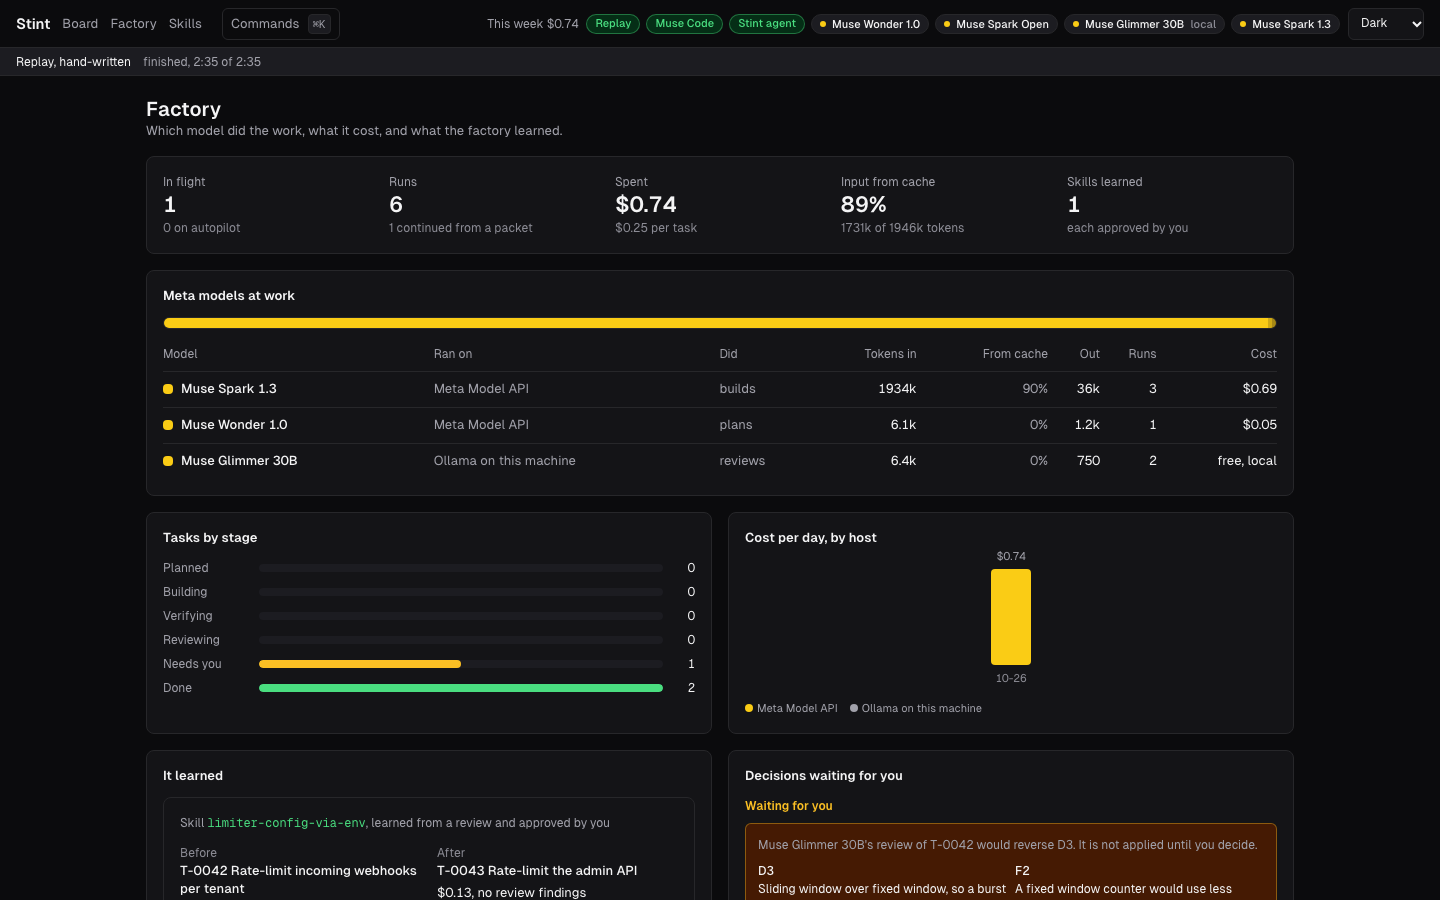
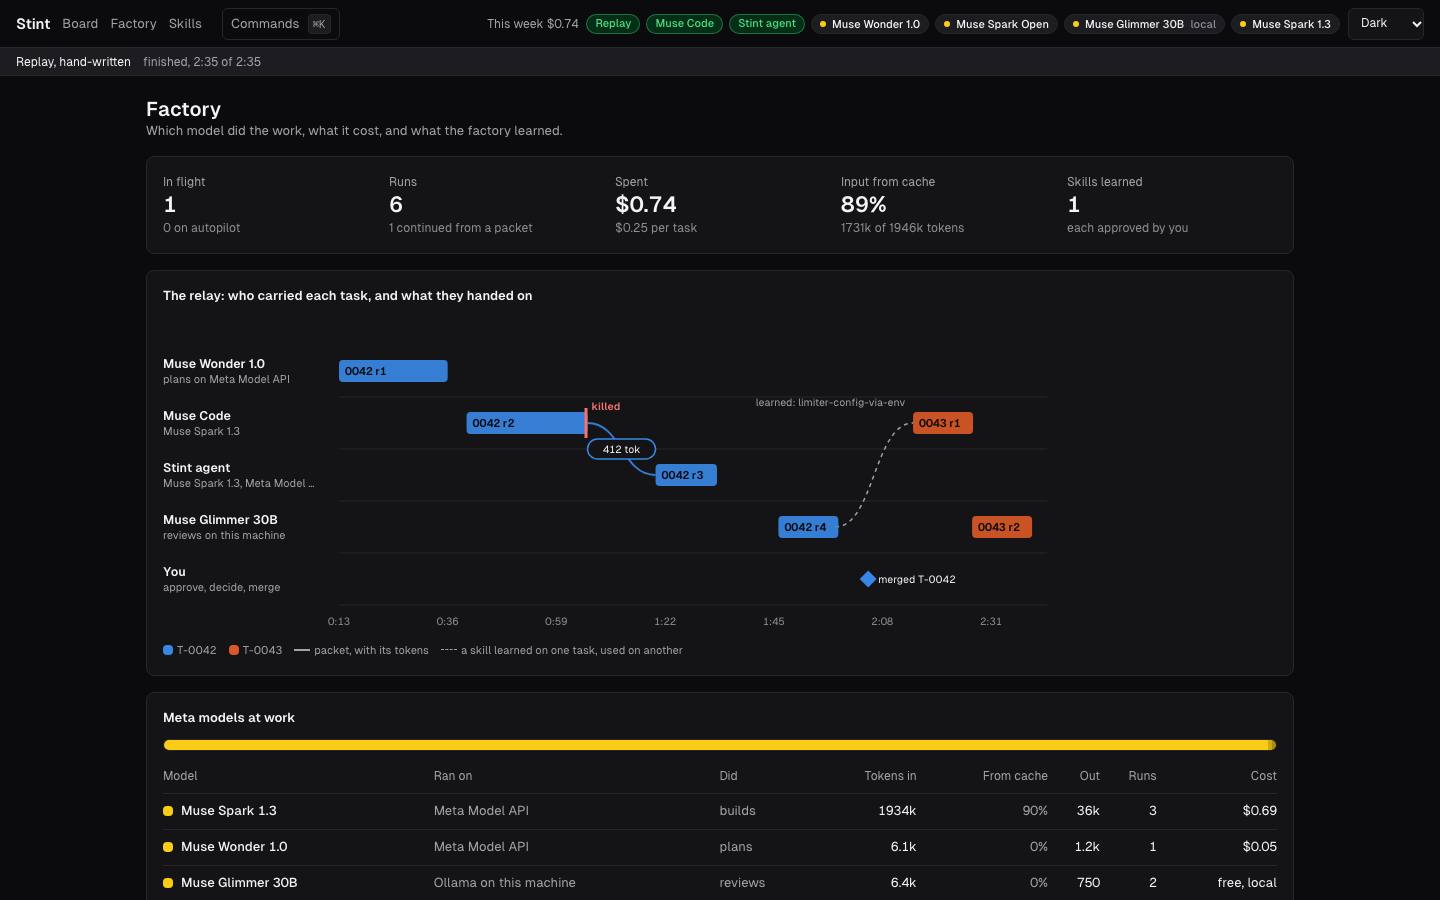
The relay: the whole floor in one picture
On the Factory, one lane per agent: Muse Wonder plans, Muse Code and the
Stint agent build on Muse Spark, Glimmer reviews on the laptop, and you
approve. Each run is a bar in its task's colour, and a kill is marked.
Each packet links the run that left to the run that continued, with its
token count, and a learned skill links the review it came from to the
task that used it. Hover a bar for its outcome and cost; click it to
open the task.

Spec: R-019

diff --git a/apps/web/src/components/Relay.tsx b/apps/web/src/components/Relay.tsx
@@ -1,0 +1,249 @@
+import { useEffect, useRef, useState } from 'react';
+import { useNavigate } from 'react-router';
+import { hostName, modelName } from '../agents';
+import { api } from '../api';
+import { money } from '../format';
+import { EmptyState } from './ui';
+
+type Lane = { id: string; adapter: string | null; model: string | null; host: string | null; roles: string[]; human: boolean };
+type Run = { task: string; run: string; lane: string; role: string | null; start: number; end: number | null; endedBy: string | null; usd: number | null; verified: 'green' | 'red' | null };
+type Link =
+  | { kind: 'packet'; task: string; from: string; to: string | null; name: string; tokens: number | null; at: number }
+  | { kind: 'skill'; skill: string; fromTask: string; from: string; toTask: string; to: string; at: number };
+type Mark = { kind: string; task: string; at: number; text: string };
+export type RelayData = { lanes: Lane[]; runs: Run[]; links: Link[]; marks: Mark[]; from: number; to: number; replay: boolean };
+
+// categorical slots in fixed order, validated for both themes; a task keeps its colour by its place on the board
+const TASK_DARK = ['#3987e5', '#d95926', '#199e70', '#c98500', '#d55181', '#9085e9'];
+const TASK_LIGHT = ['#2a78d6', '#eb6834', '#1baf7a', '#eda100', '#e87ba4', '#6250d6'];
+
+const LABEL_W = 176;
+const LANE_H = 52;
+const BAR_H = 22;
+const TOP = 28;
+
+const AGENT: Record<string, string> = { 'muse-code': 'Muse Code', 'stint-agent': 'Stint agent', replay: 'Replay' };
+
+function laneTitle(l: Lane): { name: string; detail: string } {
+  if (l.human) return { name: 'You', detail: 'approve, decide, merge' };
+  const model = l.model ? modelName(l.model) : 'its model';
+  if (l.adapter && l.adapter !== 'openai-compatible') return { name: AGENT[l.adapter] ?? l.adapter, detail: `${model}${l.host ? `, ${hostName(l.host)}` : ''}` };
+  const did = l.roles.map((r) => ({ planner: 'plans', reviewer: 'reviews', implementer: 'builds' })[r] ?? r).join(', ');
+  return { name: model, detail: `${did} on ${l.host === 'ollama' ? 'this machine' : hostName(l.host)}` };
+}
+
+const clock = (ms: number) => `${Math.floor(ms / 60_000)}:${String(Math.floor((ms % 60_000) / 1000)).padStart(2, '0')}`;
+
+function useDark(): boolean {
+  const [dark, setDark] = useState(() => getComputedStyle(document.documentElement).getPropertyValue('--surface').trim().toLowerCase() !== '#ffffff');
+  useEffect(() => {
+    const read = () => setDark(getComputedStyle(document.documentElement).getPropertyValue('--surface').trim().toLowerCase() !== '#ffffff');
+    const obs = new MutationObserver(read);
+    obs.observe(document.documentElement, { attributes: true, attributeFilter: ['data-theme'] });
+    const mq = matchMedia('(prefers-color-scheme: dark)');
+    mq.addEventListener('change', read);
+    return () => {
+      obs.disconnect();
+      mq.removeEventListener('change', read);
+    };
+  }, []);
+  return dark;
+}
+
+/** The whole floor: every run on its agent's lane, the packets that carried a task on, and the lesson that crossed tasks. */
+export function Relay() {
+  const [data, setData] = useState<RelayData | null>(null);
+  const [width, setWidth] = useState(900);
+  const [hover, setHover] = useState<{ x: number; y: number; lines: string[] } | null>(null);
+  const box = useRef<HTMLDivElement>(null);
+  const navigate = useNavigate();
+  const dark = useDark();
+
+  useEffect(() => {
+    let live = true;
+    const load = () =>
+      api
+        .relay()
+        .then((d) => live && setData(d))
+        .catch(() => undefined);
+    void load();
+    const t = setInterval(load, 4000);
+    return () => {
+      live = false;
+      clearInterval(t);
+    };
+  }, []);
+  useEffect(() => {
+    if (!box.current) return;
+    const obs = new ResizeObserver(([e]) => e && setWidth(Math.max(560, e.contentRect.width)));
+    obs.observe(box.current);
+    return () => obs.disconnect();
+  }, []);
+
+  if (!data) return <p className="text-faint text-[13px]">Reading the floor.</p>;
+  if (data.runs.length === 0) return <EmptyState>The relay appears here once a run starts: one lane per agent, and a link each time a task passes from one to the next.</EmptyState>;
+
+  const palette = dark ? TASK_DARK : TASK_LIGHT;
+  const tasks = [...new Set(data.runs.map((r) => r.task))].sort();
+  const colour = (task: string) => palette[tasks.indexOf(task) % palette.length] as string;
+  const span = Math.max(1, data.to - data.from);
+  // room on the right for the last bar's label and a killed marker
+  const plotW = width - LABEL_W - 72;
+  const x = (t: number) => LABEL_W + ((t - data.from) / span) * plotW;
+  const laneIndex = new Map(data.lanes.map((l, i) => [l.id, i]));
+  const yOf = (lane: string) => TOP + (laneIndex.get(lane) ?? 0) * LANE_H + LANE_H / 2;
+  const runOf = (task: string, run: string) => data.runs.find((r) => r.task === task && r.run === run);
+  const height = TOP + data.lanes.length * LANE_H + 28;
+  const ticks = 6;
+
+  const curve = (x1: number, y1: number, x2: number, y2: number) => {
+    const mid = (x1 + x2) / 2;
+    return `M${x1},${y1} C${mid},${y1} ${mid},${y2} ${x2},${y2}`;
+  };
+
+  return (
+    <div ref={box} className="relative" data-testid="relay">
+      <svg width={width} height={height} role="img" aria-label="Relay: runs by agent over time, with the packets and skills that connect them" className="block">
+        {data.lanes.map((l, i) => {
+          const t = laneTitle(l);
+          const y = TOP + i * LANE_H;
+          return (
+            <g key={l.id} data-lane={l.id}>
+              <line x1={LABEL_W} y1={y + LANE_H} x2={width - 16} y2={y + LANE_H} stroke="var(--border)" strokeWidth={1} />
+              <text x={0} y={y + LANE_H / 2 - 3} fontSize={12.5} fontWeight={600} fill="var(--ink)">
+                {t.name}
+              </text>
+              <text x={0} y={y + LANE_H / 2 + 12} fontSize={11} fill="var(--ink-muted)">
+                {t.detail.length > 28 ? `${t.detail.slice(0, 27)}…` : t.detail}
+              </text>
+            </g>
+          );
+        })}
+        {Array.from({ length: ticks + 1 }, (_, i) => {
+          const t = data.from + (span * i) / ticks;
+          return (
+            <text key={i} x={x(t)} y={height - 8} fontSize={10.5} textAnchor="middle" fill="var(--ink-faint)" className="tabular">
+              {data.replay ? clock(t) : new Date(t).toLocaleTimeString([], { hour: '2-digit', minute: '2-digit' })}
+            </text>
+          );
+        })}
+
+        {data.links.map((l, i) => {
+          if (l.kind === 'packet') {
+            const a = runOf(l.task, l.from);
+            const b = l.to ? runOf(l.task, l.to) : null;
+            if (!a) return null;
+            const x1 = x(a.end ?? a.start);
+            const y1 = yOf(a.lane);
+            if (!b) return null;
+            const x2 = x(b.start);
+            const y2 = yOf(b.lane);
+            return (
+              <g key={`p${i}`} data-link="packet">
+                <path d={curve(x1, y1, x2, y2)} fill="none" stroke={colour(l.task)} strokeWidth={2} opacity={0.9} />
+                <g transform={`translate(${(x1 + x2) / 2},${(y1 + y2) / 2})`}>
+                  <rect x={-34} y={-10} width={68} height={20} rx={10} fill="var(--surface-raised)" stroke={colour(l.task)} strokeWidth={1.5} />
+                  <text textAnchor="middle" y={4} fontSize={10.5} fill="var(--ink)" className="tabular">
+                    {l.tokens ? `${l.tokens} tok` : l.name}
+                  </text>
+                </g>
+              </g>
+            );
+          }
+          const a = runOf(l.fromTask, l.from);
+          const b = runOf(l.toTask, l.to);
+          if (!a || !b) return null;
+          const x1 = x(a.end ?? a.start);
+          const y1 = yOf(a.lane);
+          const x2 = x(b.start);
+          const y2 = yOf(b.lane);
+          return (
+            <g key={`s${i}`} data-link="skill">
+              <path d={curve(x1, y1, x2, y2)} fill="none" stroke="var(--ink-muted)" strokeWidth={1.5} strokeDasharray="4 4" />
+              <text x={x2 - 8} y={y2 - BAR_H / 2 - 6} textAnchor="end" fontSize={10.5} fill="var(--ink-muted)">
+                learned: {l.skill}
+              </text>
+            </g>
+          );
+        })}
+
+        {data.runs.map((r) => {
+          const x1 = x(r.start);
+          // a short run still gets room for its label
+          const x2 = Math.max(x1 + 60, x(r.end ?? data.to));
+          const y = yOf(r.lane) - BAR_H / 2;
+          const c = colour(r.task);
+          const lines = [
+            `${r.task} ${r.run}, ${r.role ?? 'run'}`,
+            `${r.endedBy ? `ended ${r.endedBy}` : 'running'}${r.end ? `, ${clock(r.end - r.start)}` : ''}`,
+            `${r.usd === null ? 'unpriced' : money({ usd: r.usd })}${r.verified ? `, tests ${r.verified}` : ''}`,
+          ];
+          return (
+            <g
+              key={`${r.task}/${r.run}`}
+              data-run={`${r.task}/${r.run}`}
+              className="cursor-pointer"
+              onClick={() => navigate(`/t/${r.task}`)}
+              onMouseMove={(e) => {
+                const rect = box.current?.getBoundingClientRect();
+                if (rect) setHover({ x: e.clientX - rect.left + 12, y: e.clientY - rect.top + 12, lines });
+              }}
+              onMouseLeave={() => setHover(null)}
+            >
+              <rect x={x1} y={y} width={x2 - x1} height={BAR_H} rx={4} fill={c} opacity={r.endedBy ? 0.92 : 0.6} />
+              <text x={x1 + 6} y={y + 15} fontSize={11} fontWeight={600} fill="#0b0b0d" className="tabular select-none">
+                {r.task.replace('T-', '')} {r.run}
+              </text>
+              {r.endedBy === 'killed' ? (
+                <g>
+                  <rect x={x2 - 3} y={y - 4} width={3} height={BAR_H + 8} fill="var(--status-bad)" />
+                  <text x={x2 + 4} y={y - 2} fontSize={10.5} fill="var(--status-bad)" fontWeight={600}>
+                    killed
+                  </text>
+                </g>
+              ) : null}
+            </g>
+          );
+        })}
+
+        {data.marks.map((m, i) => {
+          const y = yOf('you');
+          const mx = x(m.at);
+          return (
+            <g key={`m${i}`} data-mark={m.kind}>
+              <rect x={mx - 6} y={y - 6} width={12} height={12} transform={`rotate(45 ${mx} ${y})`} fill={colour(m.task)} />
+              <text x={mx + 10} y={y + 4} fontSize={10.5} fill="var(--ink)">
+                {m.kind === 'approved' ? `merged ${m.task}` : m.text.slice(0, 24)}
+              </text>
+            </g>
+          );
+        })}
+      </svg>
+
+      <div className="flex flex-wrap gap-3 mt-2 text-[11px] text-muted" data-testid="relay-legend">
+        {tasks.map((t) => (
+          <span key={t} className="inline-flex items-center gap-1">
+            <span aria-hidden className="size-2.5 rounded-sm" style={{ background: colour(t) }} />
+            {t}
+          </span>
+        ))}
+        <span className="inline-flex items-center gap-1">
+          <span aria-hidden className="inline-block w-4 border-t-2" style={{ borderColor: 'var(--ink-muted)' }} /> packet, with its tokens
+        </span>
+        <span className="inline-flex items-center gap-1">
+          <span aria-hidden className="inline-block w-4 border-t border-dashed" style={{ borderColor: 'var(--ink-muted)' }} /> a skill learned on one task, used on another
+        </span>
+      </div>
+
+      {hover ? (
+        <div className="absolute pointer-events-none z-10 rounded-md border border-line bg-raised px-2.5 py-1.5 text-[12px] shadow-[var(--shadow-overlay)]" style={{ left: hover.x, top: hover.y }}>
+          {hover.lines.map((l) => (
+            <div key={l} className="tabular whitespace-nowrap">
+              {l}
+            </div>
+          ))}
+        </div>
+      ) : null}
+    </div>
+  );
+}

diff --git a/apps/web/e2e/factory.spec.ts b/apps/web/e2e/factory.spec.ts
@@ -12,3 +12,14 @@ test('The Factory view renders KPIs, Meta models at work, tasks by stage, cost b
   await expect(page.getByTestId('it-learned')).toContainText('limiter-config-via-env');
   await expect(page.getByTestId('queue-row').first()).toContainText('would reverse D3');
 });
+
+test('The relay shows each agent as a lane, the killed run, the 412-token packet to the next agent, and the skill that crossed tasks', async ({ page }) => {
+  await page.goto('/factory');
+  const relay = page.getByTestId('relay');
+  await expect(relay.locator('[data-lane="muse-code:muse-spark-1.3"]')).toContainText('Muse Code');
+  await expect(relay.locator('[data-lane="stint-agent:muse-spark-1.3"]')).toContainText('Stint agent');
+  await expect(relay.locator('[data-run="T-0042/r2"]')).toContainText('killed');
+  await expect(relay.locator('[data-link="packet"]').first()).toContainText('412 tok');
+  await expect(relay.locator('[data-link="skill"]')).toContainText('learned: limiter-config-via-env');
+  await expect(relay.locator('[data-mark="approved"]')).toContainText('merged T-0042');
+});

diff --git a/apps/web/src/routes/Factory.tsx b/apps/web/src/routes/Factory.tsx
@@ -3,6 +3,7 @@ import { Link } from 'react-router';
 import { ROLE_NAMES, hostName, modelName } from '../agents';
 import { type CostRow, api } from '../api';
 import { Queue } from '../components/MemoryPanel';
+import { Relay } from '../components/Relay';
 import { EmptyState, cx } from '../components/ui';
 import { money, tokens } from '../format';
 import { useHealth, useTasks } from '../hooks';
@@ -291,6 +292,10 @@ export function Factory() {
           <Figure label="Input from cache" value={input ? `${Math.round((cached / input) * 100)}%` : 'none'} detail={`${tokens(cached)} of ${tokens(input)} tokens`} />
           <Figure label="Skills learned" value={String(learned)} detail="each approved by you" />
         </div>
+
+        <Panel title="The relay: who carried each task, and what they handed on" testId="panel-relay">
+          <Relay />
+        </Panel>
 
         <Panel title="Meta models at work" testId="panel-models">
           <ModelsAtWork rows={byModel ?? []} />

diff --git a/apps/web/src/api.ts b/apps/web/src/api.ts
@@ -136,6 +136,7 @@ export const api = {
   skills: () => request<SkillRecord[]>('/api/skills'),
   approveSkill: (id: string) => post<unknown>(`/api/skills/${id}/approve`),
   rejectSkill: (id: string, reason: string) => post<unknown>(`/api/skills/${id}/reject`, { reason }),
+  relay: () => request<import('./components/Relay').RelayData>('/api/relay'),
   hand: (id: string, adapter: string, ask?: string) => post<{ run: string; packet: string }>(`/api/tasks/${id}/hand`, { adapter, ...(ask ? { ask } : {}) }),
   quiz: (id: string, name: string) => post<QuizResult>(`/api/tasks/${id}/handoffs/${name}/quiz`),
   stopRun: (id: string, run: string) => post<unknown>(`/api/tasks/${id}/runs/${run}/stop`),
